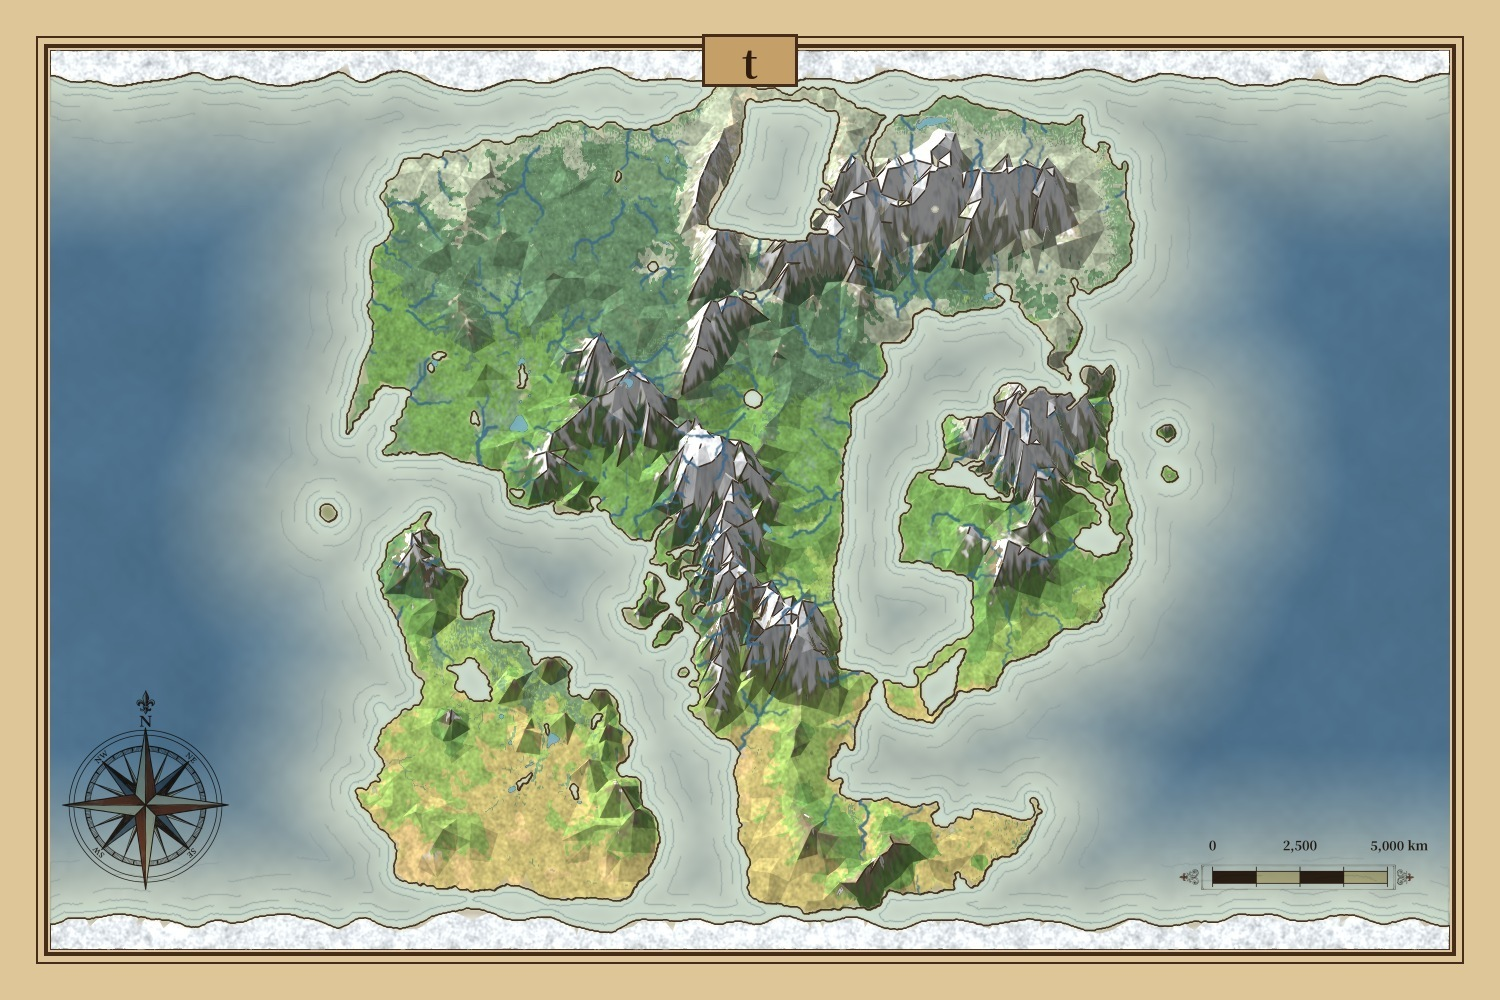
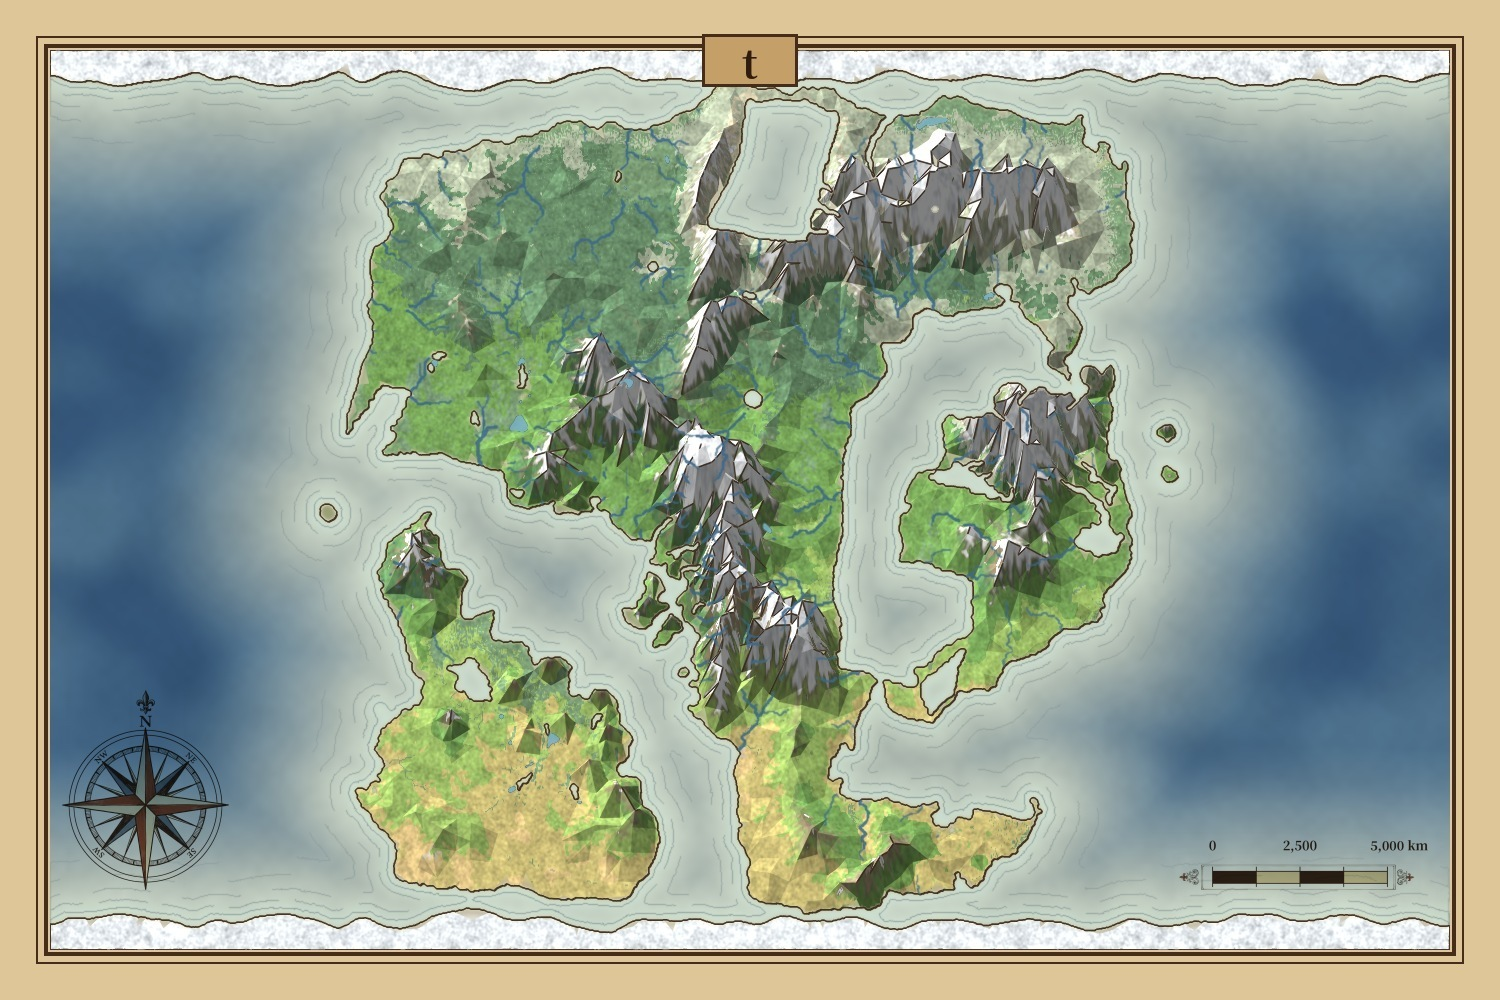
海の最濃の塊を足す
Claude-Session: https://claude.ai/code/session_01NNF75WtqSrNc5QxPaYtfZJ

diff --git a/docs/apps/fantasy-war/mapstyle49.html b/docs/apps/fantasy-war/mapstyle49.html
@@ -2,7 +2,7 @@
 <style>body{font-family:sans-serif;background:#f4ecd8;color:#2b2418;margin:0;padding:16px;line-height:1.7}h1{font-size:1.3em}h2{font-size:1.1em;margin-top:1.3em}img{max-width:100%;border-radius:6px}</style></head><body>
 <h1>海の深さの色(試作・11-20)</h1>
 <p><b>概要</b>: 海を、岸の近くは明るい青灰、沖へ行くほど濃い青にしました。岸の浅瀬(明るい青緑)と波線はそのままで、その沖に深い色が広がります。方位記号・縮尺・川も入れた最新の絵です。</p>
-<h2>拡大(左=最初の薄い版、右=濃くした今回)</h2><img src="mapstyle/gv/lp49_zoom.jpg"><small class="eid" style="display:block;font-size:.85em;font-weight:bold;color:#7a2e1e">絵番号 E001</small>
+<h2>拡大(左=濃くした版、右=さらに「もっと濃いところ」を足した今回)</h2><p>ご指摘(11-20 21:52「もう少し濃いところを作る」)を、「沖の深い所に、さらに濃い青の塊を足す」と読みました。岸から約110ピクセル以上沖で、ゆらぎのある塊として最も濃い青(42,74,112)を、強さ約7割で重ねています。</p><img src="mapstyle/gv/lp49_zoom.jpg"><small class="eid" style="display:block;font-size:.85em;font-weight:bold;color:#7a2e1e">絵番号 E001</small>
 <h2>全体(5世界)</h2><img src="mapstyle/gv/lp49_pwg7.jpg"><small class="eid" style="display:block;font-size:.85em;font-weight:bold;color:#7a2e1e">絵番号 E002</small><br><img src="mapstyle/gv/lp49_pwg5.jpg"><small class="eid" style="display:block;font-size:.85em;font-weight:bold;color:#7a2e1e">絵番号 E003</small><br><img src="mapstyle/gv/lp49_pwg16.jpg"><small class="eid" style="display:block;font-size:.85em;font-weight:bold;color:#7a2e1e">絵番号 E004</small><br><img src="mapstyle/gv/lp49_pwg4.jpg"><small class="eid" style="display:block;font-size:.85em;font-weight:bold;color:#7a2e1e">絵番号 E005</small><br><img src="mapstyle/gv/lp49_pwg1.jpg"><small class="eid" style="display:block;font-size:.85em;font-weight:bold;color:#7a2e1e">絵番号 E006</small>
 <h2>やったこと</h2>
 <ol><li>最初は、世界データの「海の深さ」をそのまま使った。すると、世界の正方形の外側(穴埋め部分)だけ極端に濃くなり、境目が縦の線として見えたので、やめた。</li>

diff --git a/docs/apps/fantasy-war/mapstyle/tools/illus.py b/docs/apps/fantasy-war/mapstyle/tools/illus.py
@@ -47,6 +47,15 @@ def main(wdir, outp, title, seed=1):
         deep_c = np.array(tuple(float(v) for v in os.environ.get('FM_DEEP', '86,122,150').split(',')), np.float32)
         dk = (dep * float(os.environ.get('FM_DEPTH_K', '0.8')))[..., None]
         img = img * (1 - dk) + deep_c * dk * (0.92 + 0.12 * pn[..., None])
+        # もう少し濃いところ(11-20 ユーザー指示): 沖の深い所に、さらに濃い青の「深み」を、ゆらぎのある塊として足す
+        k2 = float(os.environ.get('FM_DEEP2_K', '0.0'))
+        if k2 > 0:
+            far = np.clip((dd - float(os.environ.get('FM_DEEP2_D0', '110'))) / 90.0, 0, 1)
+            nz2 = ndi.gaussian_filter(np.random.RandomState(seed + 41).randn(H0, W0).astype(np.float32), 28); nz2 = nz2 / (nz2.std() + 1e-6)
+            core = np.clip(far * (0.65 + 0.35 * nz2), 0, 1)
+            core = ndi.gaussian_filter(core, 5) * k2
+            d2c = np.array((42, 74, 112), np.float32)
+            img = img * (1 - core[..., None]) + d2c * core[..., None] * (0.94 + 0.1 * pn[..., None])
     if coast2:
         # 浅瀬: 岸ぞいを明るい青緑にして、沖へ向かって海の色になじませる(明るさ約27%)
         shk = float(os.environ.get('FM_SHALLOW', '0.8')); shd = float(os.environ.get('FM_SHALLOW_D', '30'))

diff --git a/docs/apps/sekai-hex/design/STATE.md b/docs/apps/sekai-hex/design/STATE.md
@@ -102,7 +102,7 @@
 - 【試作 11-20 ユーザー指示 方位記号はGeminiに書かせよう】注文文→Geminiの絵(白背景)→add_compass.pyで左下に乗算(mapstyle47、200px)。限界: NE等の文字が入った・左下固定・目視のみ・3D未反映。縮尺は PWGの1マスが何kmか未確認のため未着手(嘘の距離は描かない)。
 - 【確定 11-20 ユーザー決定】地図全体は地球と同じ大きさ。地球の縮尺をそのまま使う。
 - 【確定 11-20 ユーザー決定(続き)】縮尺は「普通の地球の地図の縮尺」でよい=地図の横幅が地球一周(1400px=40,075km、1px≒28.6km)。右下の縮尺(5000km=約175px)はこの読みで確定。
-- 【試作 11-20 海の深さの色】岸からの距離(約170pxで最濃・濃さ約95%・色72,110,140。最初の約8割は薄すぎとのご指摘で濃くした)で浅い=明るい青灰、沖=濃い青(illus.py FM_DEPTH=1、mapstyle49)。データの深さは穴埋め部分との境目が出るため不使用。限界: 目視のみ・実際の海底の深さではない・世界16で縮尺が陸に接する・3D未反映。
+- 【試作 11-20 海の深さの色】岸からの距離(約170pxで最濃・濃さ約95%・色72,110,140。最初の約8割は薄すぎとのご指摘で濃くした。さらに沖の深い所に最濃の青(42,74,112)の塊を強さ約7割で足した=FM_DEEP2_K=0.7)で浅い=明るい青灰、沖=濃い青(illus.py FM_DEPTH=1、mapstyle49)。データの深さは穴埋め部分との境目が出るため不使用。限界: 目視のみ・実際の海底の深さではない・世界16で縮尺が陸に接する・3D未反映。
 - 【試作 11-20 縮尺】上の確定を「地図の横幅1400px=地球一周40,075km(1px≒28.6km)」と読み、5000kmの棒を右下に描いた(mapstyle48。飾りはGemini、棒と数字は add_scale2.py で正確に描き直し)。限界: 読みは私の解釈・上下に伸びた図で縮尺は赤道付近の横方向のみ・目視のみ・3D未反映。
 ---
 ## カード7 見せ方のコンセプト【確定(方向)】

diff --git a/docs/apps/sekai-hex/design/cards/c06f.md b/docs/apps/sekai-hex/design/cards/c06f.md
@@ -12,5 +12,5 @@
 - 【試作 11-20 ユーザー指示 方位記号はGeminiに書かせよう】注文文→Geminiの絵(白背景)→add_compass.pyで左下に乗算(mapstyle47、200px)。限界: NE等の文字が入った・左下固定・目視のみ・3D未反映。縮尺は PWGの1マスが何kmか未確認のため未着手(嘘の距離は描かない)。
 - 【確定 11-20 ユーザー決定】地図全体は地球と同じ大きさ。地球の縮尺をそのまま使う。
 - 【確定 11-20 ユーザー決定(続き)】縮尺は「普通の地球の地図の縮尺」でよい=地図の横幅が地球一周(1400px=40,075km、1px≒28.6km)。右下の縮尺(5000km=約175px)はこの読みで確定。
-- 【試作 11-20 海の深さの色】岸からの距離(約170pxで最濃・濃さ約95%・色72,110,140。最初の約8割は薄すぎとのご指摘で濃くした)で浅い=明るい青灰、沖=濃い青(illus.py FM_DEPTH=1、mapstyle49)。データの深さは穴埋め部分との境目が出るため不使用。限界: 目視のみ・実際の海底の深さではない・世界16で縮尺が陸に接する・3D未反映。
+- 【試作 11-20 海の深さの色】岸からの距離(約170pxで最濃・濃さ約95%・色72,110,140。最初の約8割は薄すぎとのご指摘で濃くした。さらに沖の深い所に最濃の青(42,74,112)の塊を強さ約7割で足した=FM_DEEP2_K=0.7)で浅い=明るい青灰、沖=濃い青(illus.py FM_DEPTH=1、mapstyle49)。データの深さは穴埋め部分との境目が出るため不使用。限界: 目視のみ・実際の海底の深さではない・世界16で縮尺が陸に接する・3D未反映。
 - 【試作 11-20 縮尺】上の確定を「地図の横幅1400px=地球一周40,075km(1px≒28.6km)」と読み、5000kmの棒を右下に描いた(mapstyle48。飾りはGemini、棒と数字は add_scale2.py で正確に描き直し)。限界: 読みは私の解釈・上下に伸びた図で縮尺は赤道付近の横方向のみ・目視のみ・3D未反映。
